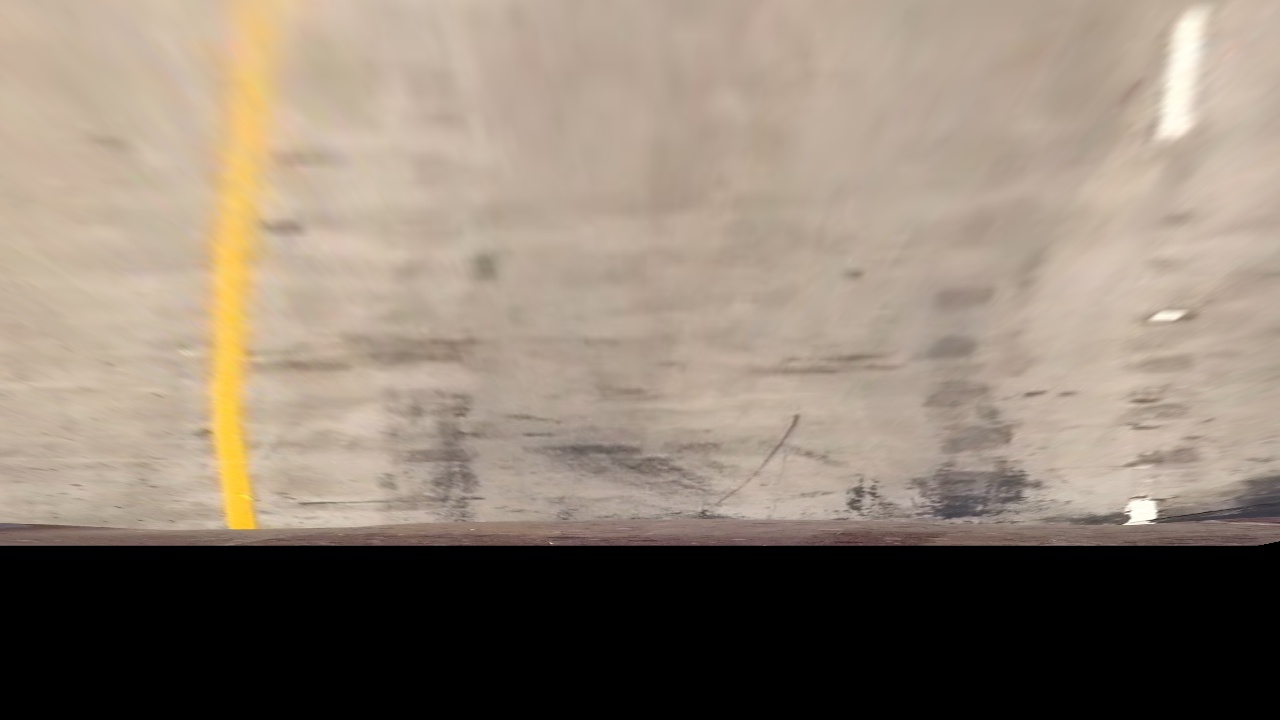
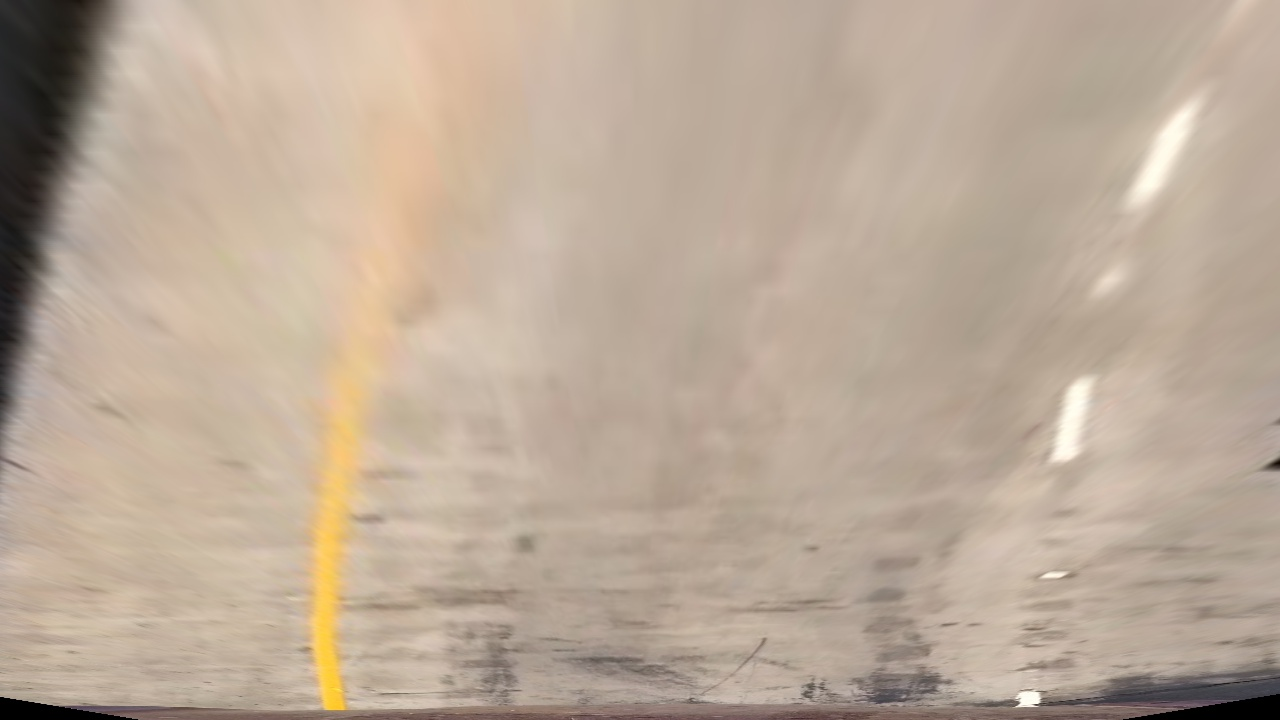
Perspective Transform logic complete

diff --git a/examples/project_4.py b/examples/project_4.py
@@ -153,35 +153,29 @@ class Line():
         if self.verbosity == 2:
             print('inside __perspectiveTranformOnRoad__ function')
         
-        imageNames = glob.glob(self.testImageLocation + "straight_lines*.jpg")
-
-#        (280,670)(1020,670)(585,460)(706,460)
-        for fname in imageNames:
-            img = cv2.imread(fname)
-            undistordedImage = self.__undistortImage__(img)
+        fname = self.testImageLocation + "straight_lines1.jpg"
+        img = cv2.imread(fname)
+        undistortedImage = self.__undistortImage__(img)
 #            gray = cv2.cvtColor(undistordedImage, cv2.COLOR_BGR2GRAY)
-            offset = 200
-            img_size = (img.shape[1], img.shape[0])
-            
-            src = np.array([[280,670],[525,500],[765,500],[1024,670]], np.double).reshape(4,1,2)
-            dst = np.float32([[img_size[0]-offset, offset], 
-                                     [img_size[0]-offset, img_size[1]-offset], 
-                                     [offset, img_size[1]-offset], [offset, offset]])
-
-            dst = np.float32([
-                    [offset, img_size[1]-offset],
-                    [offset, offset], 
-                    [img_size[0]-offset, offset],
-                    [img_size[0]-offset, img_size[1]-offset] 
-                    ])
-
-#            Don't delete these comments            
-#            cv2.line(undistordedImage,(280,670),(580,465),(0,255,0),4)# left ( down to up)
-#            cv2.line(undistordedImage,(710,470),(1024,670),(0,255,0),4)# right (up to down)
+        offset = 300
+        img_size = (img.shape[1], img.shape[0])
+        
+        src = np.array([[205,720],[596,450],[685,450],[1100,720]], np.double).reshape(4,1,2)
     
-            self.__updatePerspectiveTransormMatrix__(np.float32(src),np.float32(dst))
-            warpedImage = self.__perspectiveTransformImage__(undistordedImage)            
-            cv2.imwrite(self.outputImageLocation + 'afterPerspectiveTransform_' + fname.split('/')[-1],warpedImage)
+        dst = np.float32([
+                [offset, img_size[1]],
+                [offset, 0], 
+                [img_size[0]-offset, 0],
+                [img_size[0]-offset, img_size[1]] 
+                ])
+
+#        Don't delete these comments            
+#        cv2.line(undistortedImage,(np.int(src[0].reshape(2,)[0]),np.int(src[0].reshape(2,)[1])),(np.int(src[1].reshape(2,)[0]),np.int(src[1].reshape(2,)[1])),(0,255,0),4)# left ( down to up)
+#        cv2.line(undistortedImage,(np.int(src[2].reshape(2,)[0]),np.int(src[2].reshape(2,)[1])),(np.int(src[3].reshape(2,)[0]),np.int(src[3].reshape(2,)[1])),(0,255,0),4)# right (up to down)
+
+        self.__updatePerspectiveTransormMatrix__(np.float32(src),np.float32(dst))
+        warpedImage = self.__perspectiveTransformImage__(undistortedImage)
+        cv2.imwrite(self.outputImageLocation + 'afterPerspectiveTransform_' + fname.split('/')[-1],warpedImage)
     
     def __perspectiveTranformOnRoadtest__(self):
             if self.verbosity == 2:
@@ -195,30 +189,34 @@ class Line():
                 warpedImage = self.__perspectiveTransformImage__(undistordedImage)            
                 cv2.imwrite(self.outputImageLocation + 'afterPerspectiveTransform_' + fname.split('/')[-1],warpedImage)
                 
-#    def __ms_perspectiveTranformOnRoadtest__(self,img):
-#            if self.verbosity == 2:
-#                print('inside __perspectiveTranformOnRoadtest__ function')
-#            
-#            imageNames = glob.glob(self.testImageLocation + "test*.jpg")    
-#            for fname in imageNames:
-#                img = cv2.imread(fname)
-#                undistordedImage = self.__undistortImage__(img)
-#                undistordedImage = img
-#                warpedImage = self.__perspectiveTransformImage__(undistordedImage)            
-#                cv2.imwrite(self.outputImageLocation + 'afterPerspectiveTransform_' + fname.split('/')[-1],warpedImage)
+    def __ms_undistortImage__(self,img):
+            if self.verbosity == 2:
+                print('inside __perspectiveTranformOnRoadtest__ function')
+            return self.__undistortImage__(img)            
+    
+    def __ms_perspectiveTranformOnRoadtest__(self,img):
+            if self.verbosity == 2:
+                print('inside __perspectiveTranformOnRoadtest__ function')
+            return self.__perspectiveTransformImage__(img)            
                 
     # Define a function that thresholds the S-channel of HLS
     # Use exclusive lower bound (>) and inclusive upper (<=)
-#    def __hls_select__(img, thresh=(0, 255)):
-#        # 1) Convert to HLS color space
-#        hls = cv2.cvtColor(img, cv2.COLOR_RGB2HLS)
-#        # 2) Apply a threshold to the S channel
-#        S = hls[:,:,2]
-#        binary_output = np.zeros_like(S)
-#        binary_output[(S > thresh[0]) & (S <= thresh[1])] = 1
-#        # 3) Return a binary image of threshold result
-#        return binary_output
-#    
+    def __hls_select__(self,img, thresh=(90, 255)):
+        # 1) Convert to HLS color space
+        hls = cv2.cvtColor(img, cv2.COLOR_BGR2HLS)
+        # 2) Apply a threshold to the S channel
+        H = hls[:,:,0]
+        L = hls[:,:,1]
+        S = hls[:,:,2]
+        binary_output = np.zeros_like(S)
+        
+        # third (L > 100) is helping in removing shadows
+        # L > 200 is helping in detecting white lines
+        binary_output[((S > thresh[0]) & (S <= thresh[1]) & (L > 60)) | (L > 200)] = 255
+        # 3) Return a binary image of threshold result
+        
+#        binary_output = L
+        return binary_output
             
     def __image_pipeline__(self):
         if self.verbosity == 2:
@@ -227,8 +225,20 @@ class Line():
         self.__perspectiveTranformOnChessBoard__()
         self.__perspectiveTranformOnRoad__()
         self.__perspectiveTranformOnRoadtest__()
-#
-#        
+
+        imageNames = glob.glob(self.testImageLocation + "test*.jpg")    
+        for fname in imageNames:
+            img = cv2.imread(fname)
+            img = self.__ms_undistortImage__(img)
+            cv2.imwrite(self.outputImageLocation + 'pipeline_002' + fname.split('/')[-1],img)
+            # need to be done before perspective transform as the image is gettng blurry in the other case and it is difficult to identify edges and colors
+            binary_threshold_image = self.__hls_select__(img)
+            cv2.imwrite(self.outputImageLocation  + 'pipeline_003' + fname.split('/')[-1],binary_threshold_image)
+            perspectiveImage = self.__perspectiveTransformImage__(binary_threshold_image)
+            cv2.imwrite(self.outputImageLocation + 'pipeline_004' + fname.split('/')[-1],perspectiveImage)
+
+
+        
 #        fname = 'calibration_test.png'
 #        img = cv2.imread(fname)
 #
